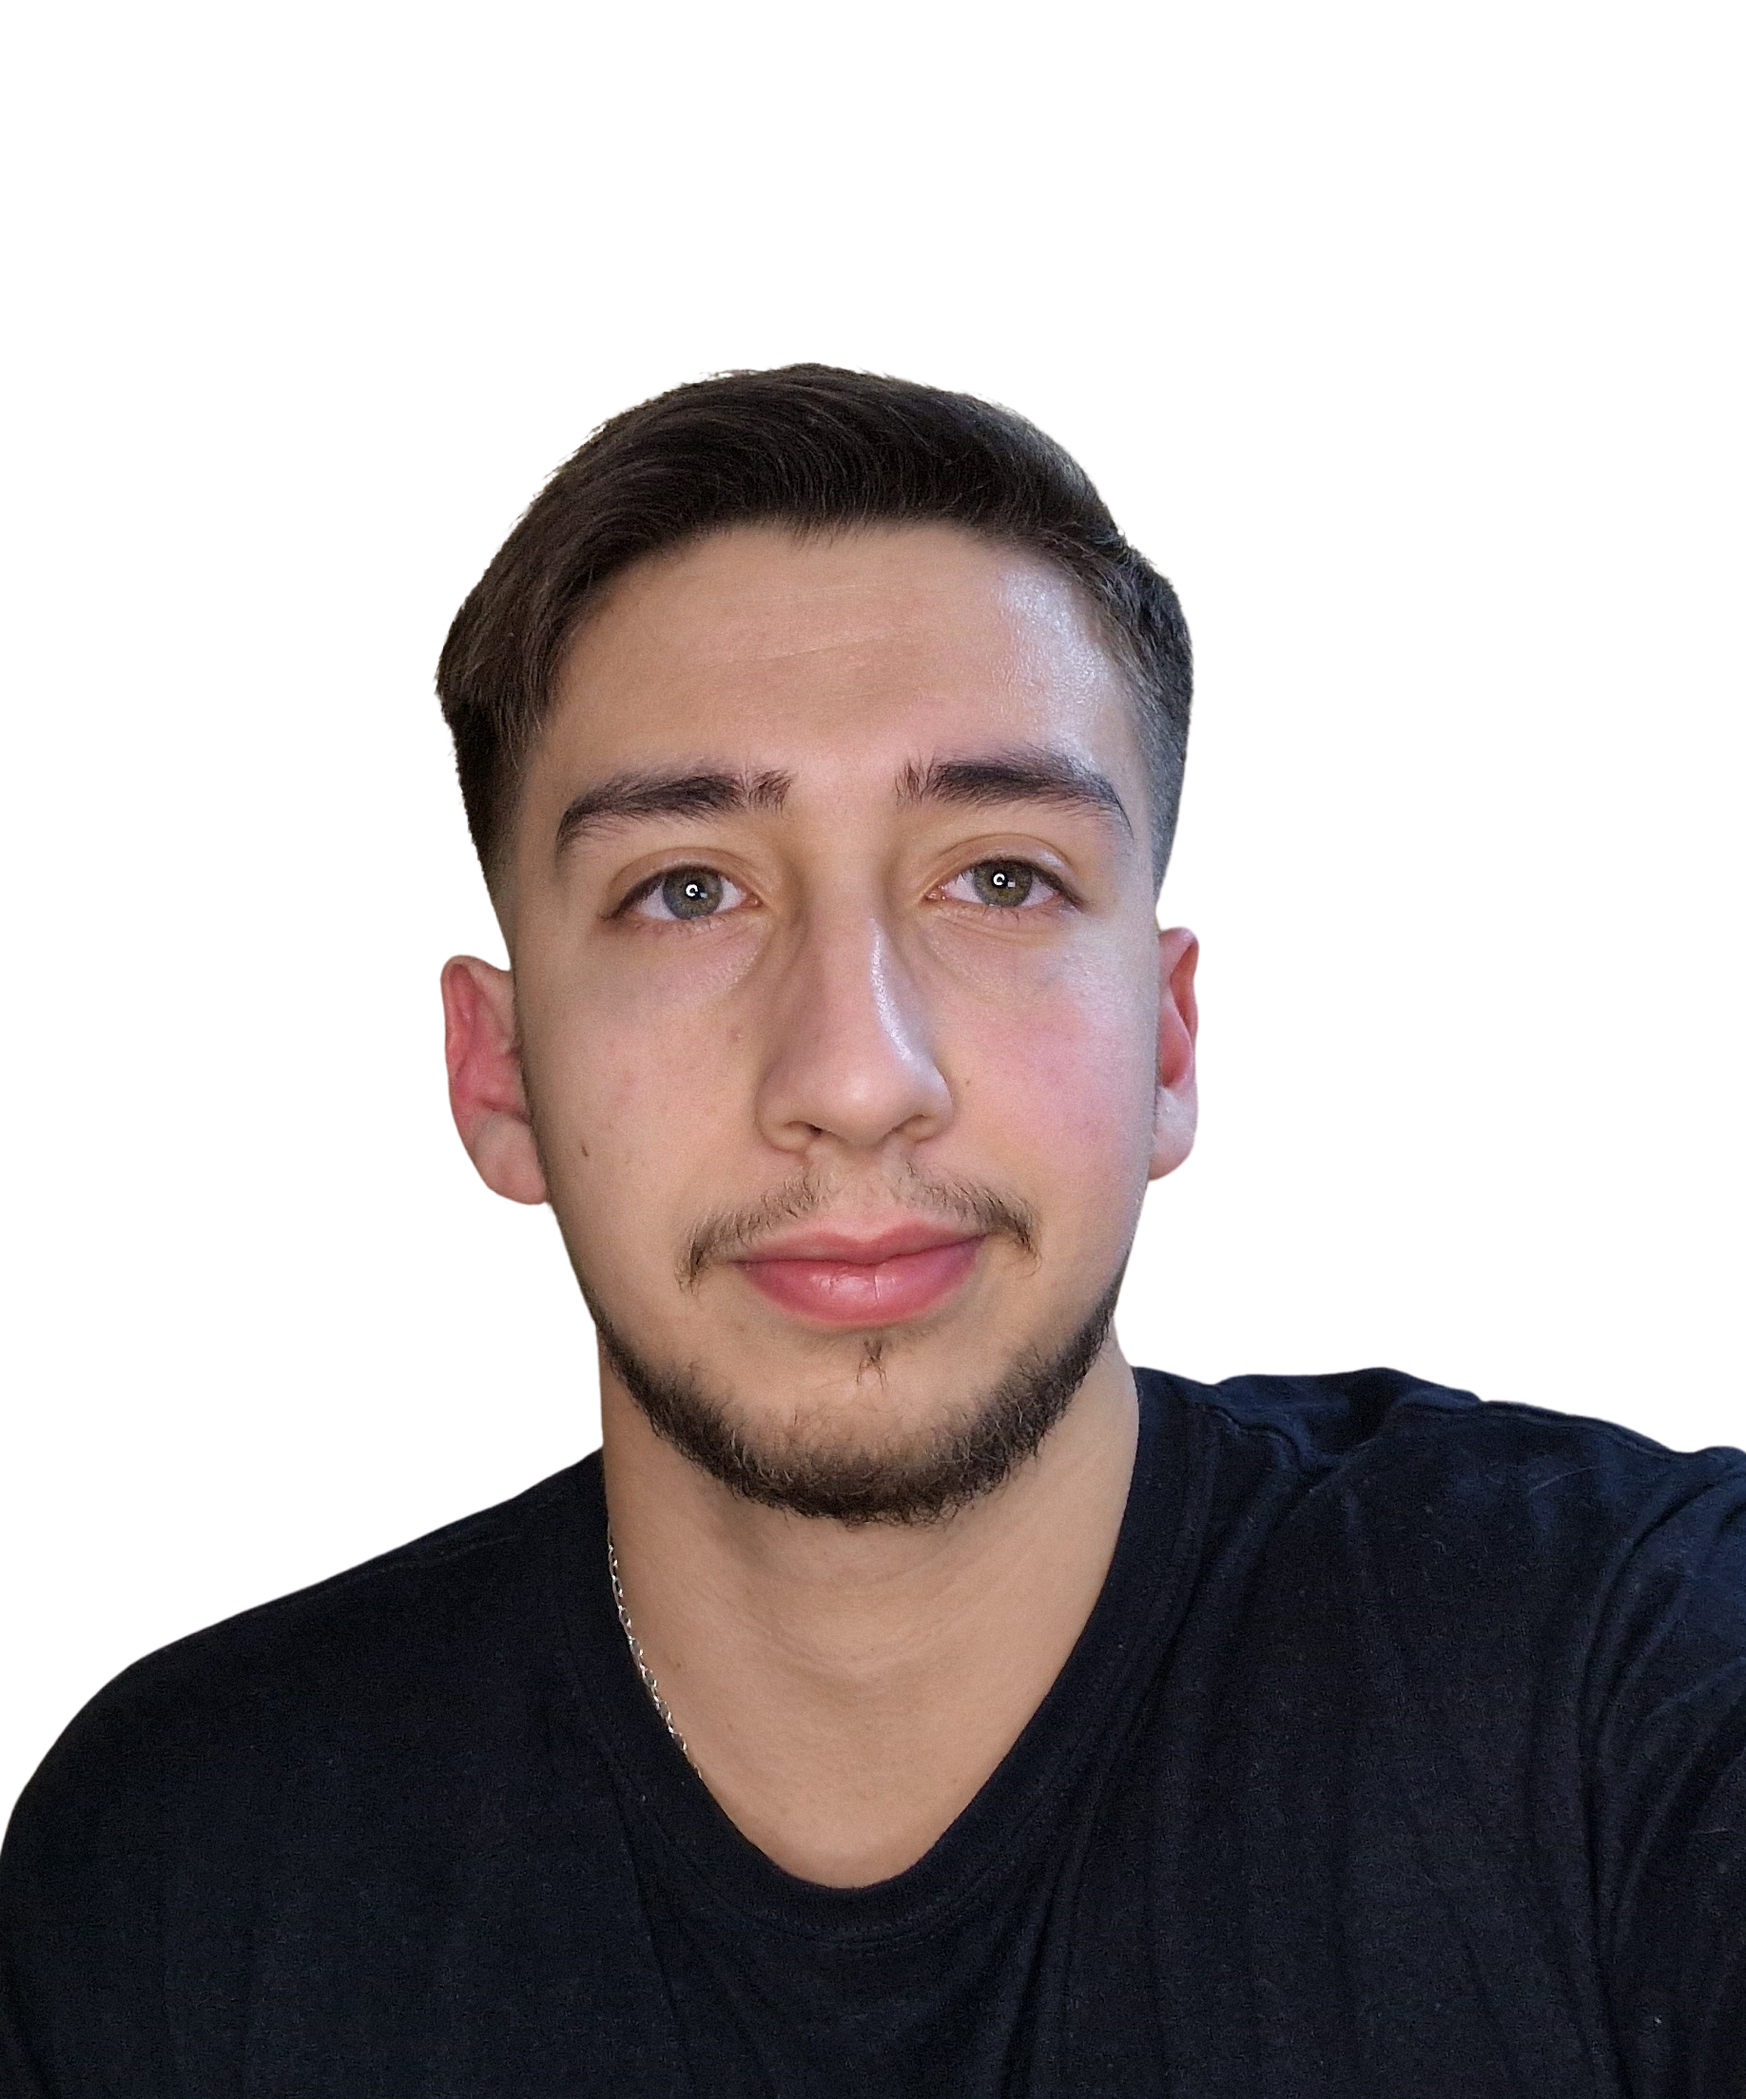
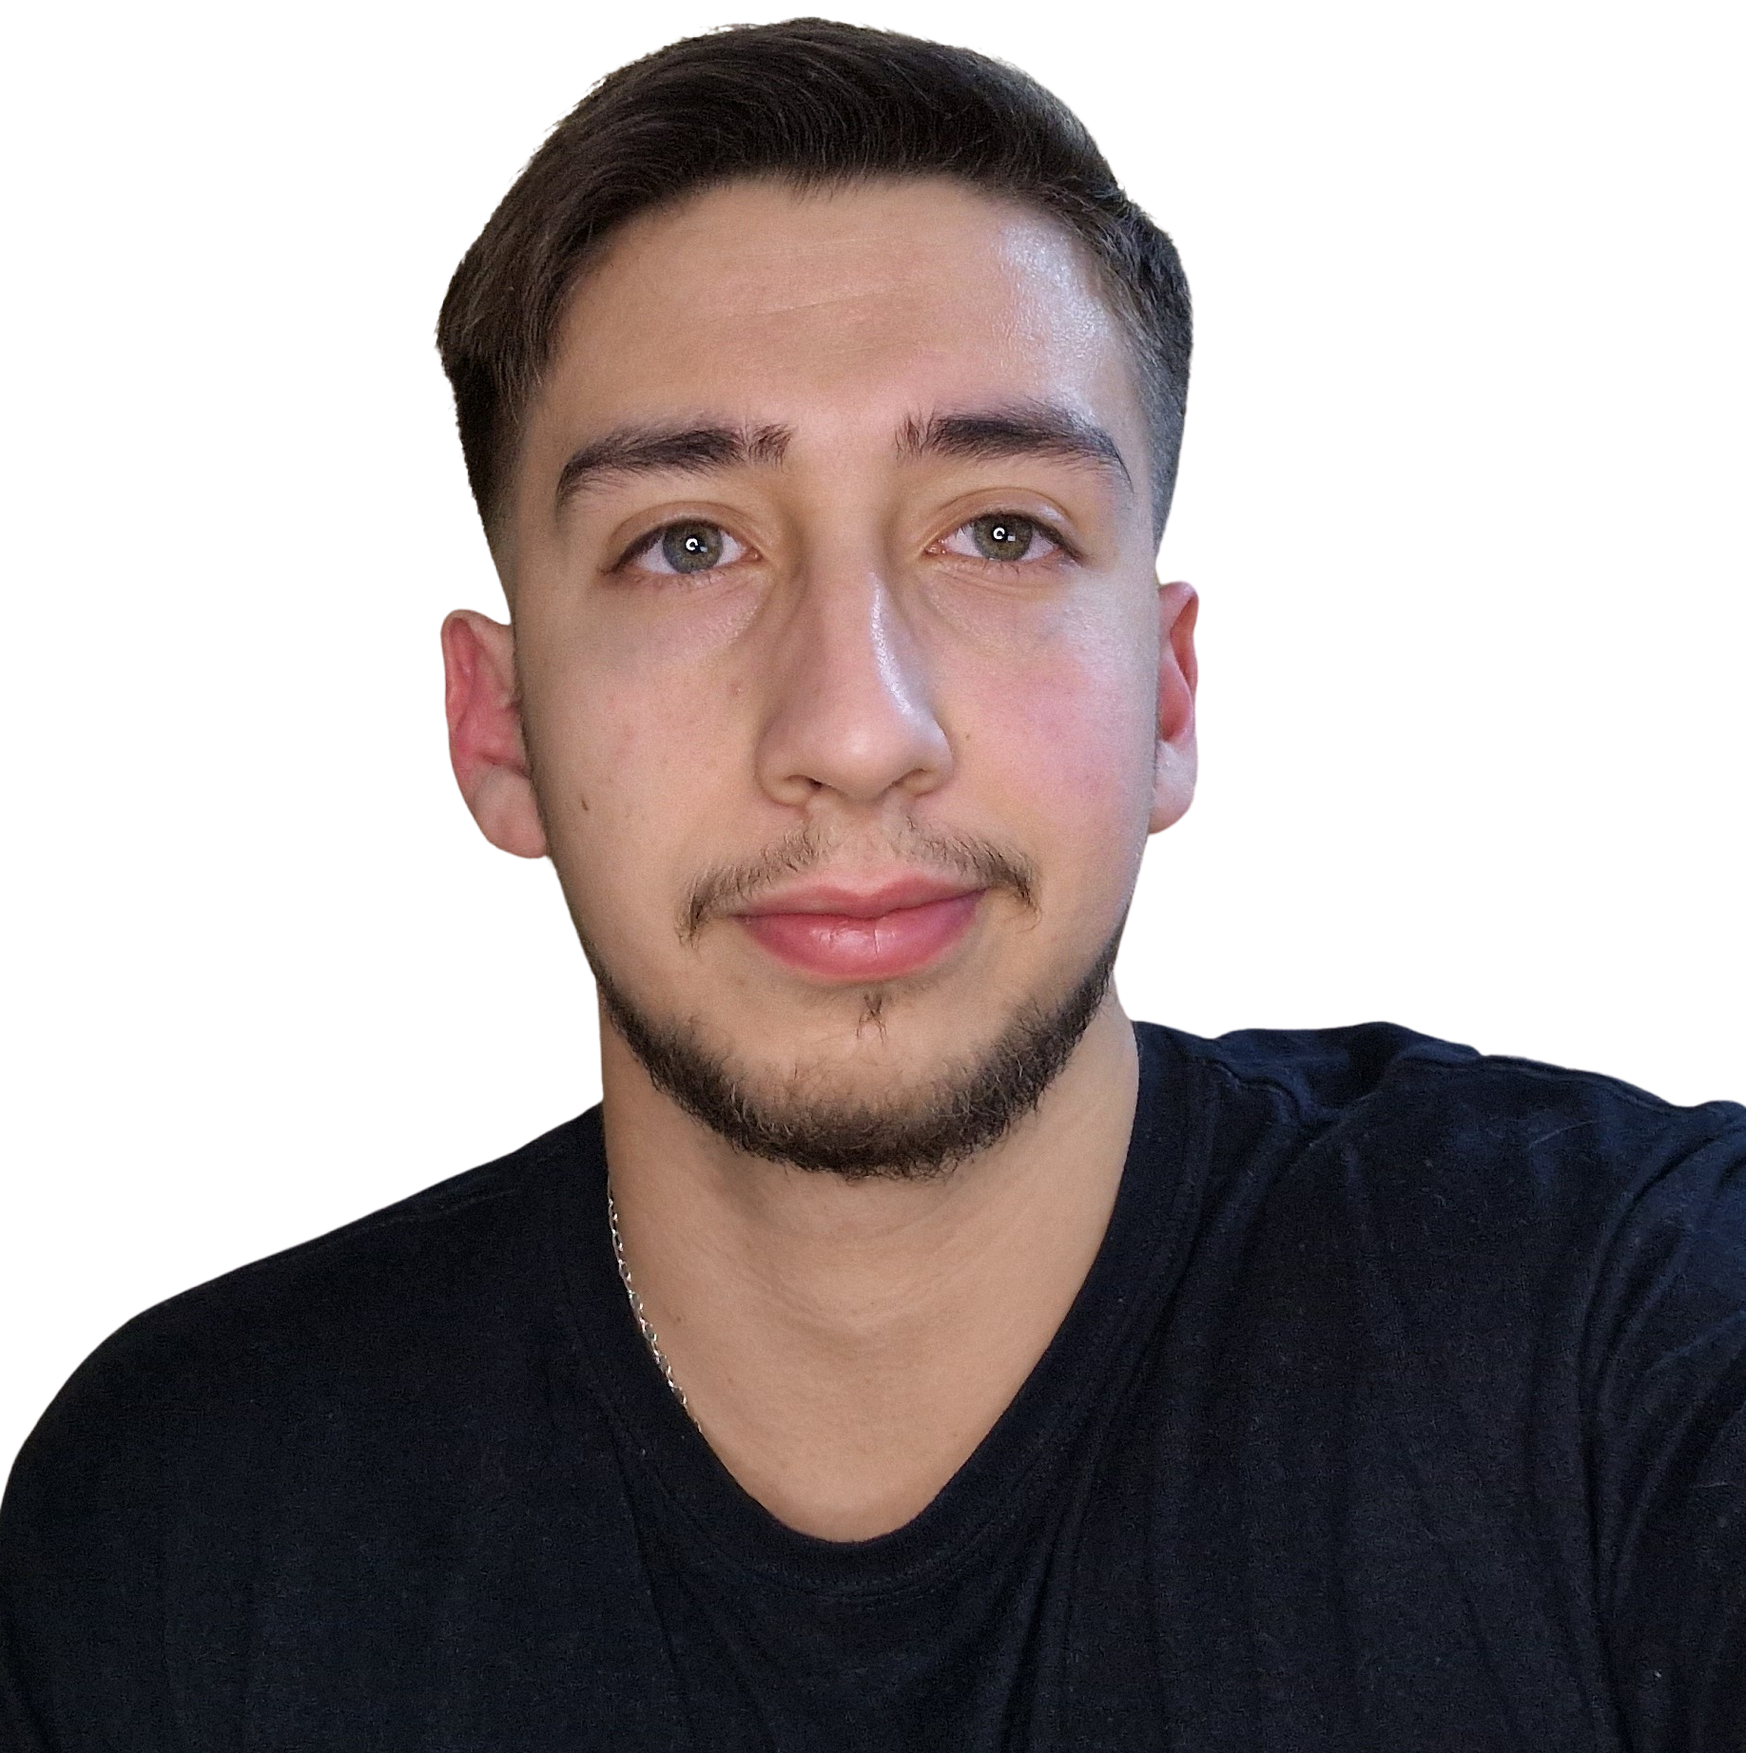
fix: Image fixed

Changed region(s): [[0.0, 0.0, 1.0, 0.9273]]

diff --git a/app/components/Introduction.tsx b/app/components/Introduction.tsx
@@ -15,7 +15,7 @@ const Introduction = () => {
     return (
         <div className='z-20 w-full bg-darkBg/60'>
             <div className='z-20 grid items-center h-full p-6 py-20 md:py-0 md:grid-cols-2'>
-            <div className=' flex justify-center items-center m-5 p-7 rounded-xl'>  
+            <div className=' flex justify-center items-center m-7 p-7 rounded-xl'>  
                     <Image 
                         src="/jorgevidovic.png" 
                         alt='Jorge Vidovic' 
